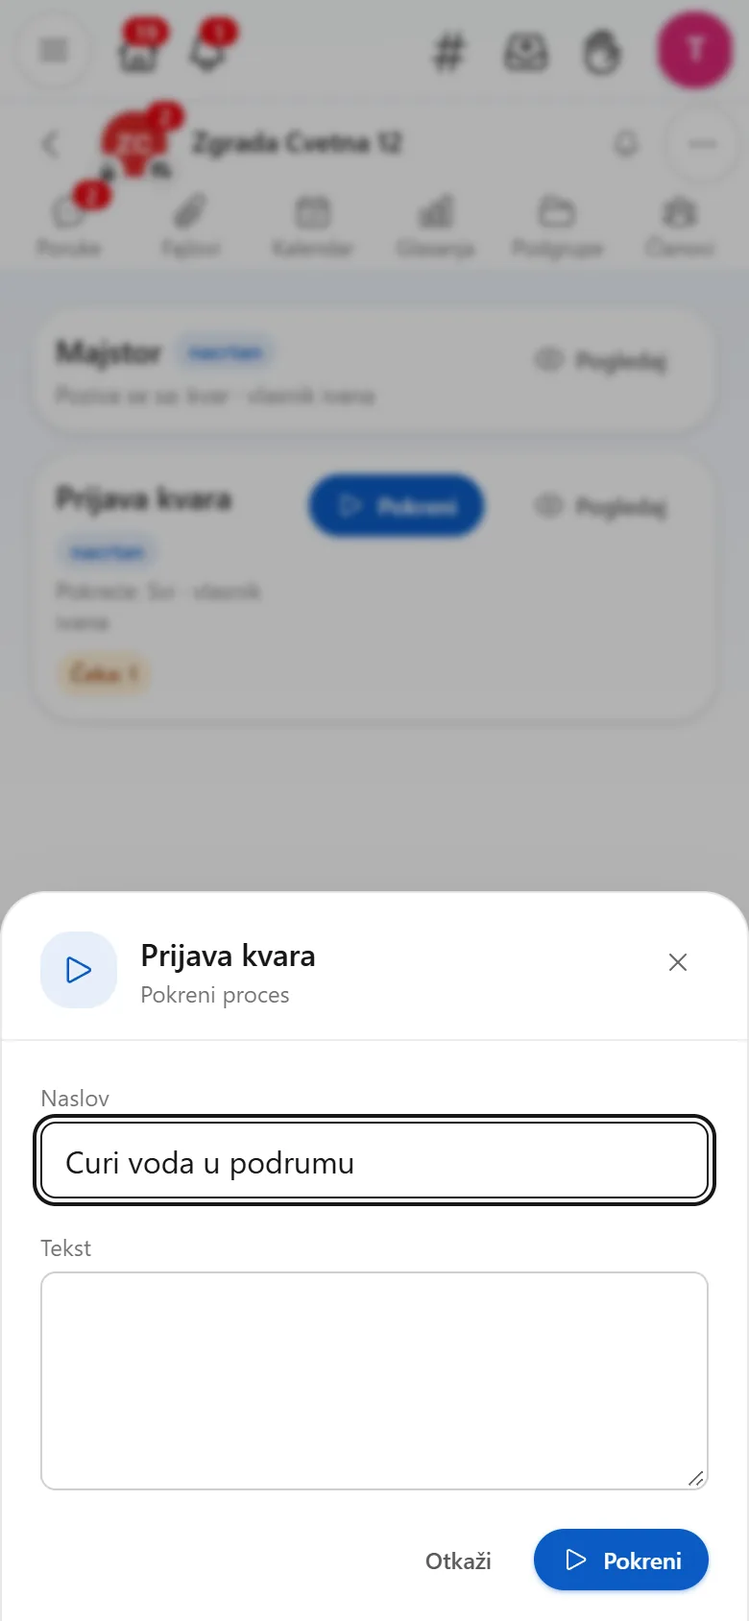
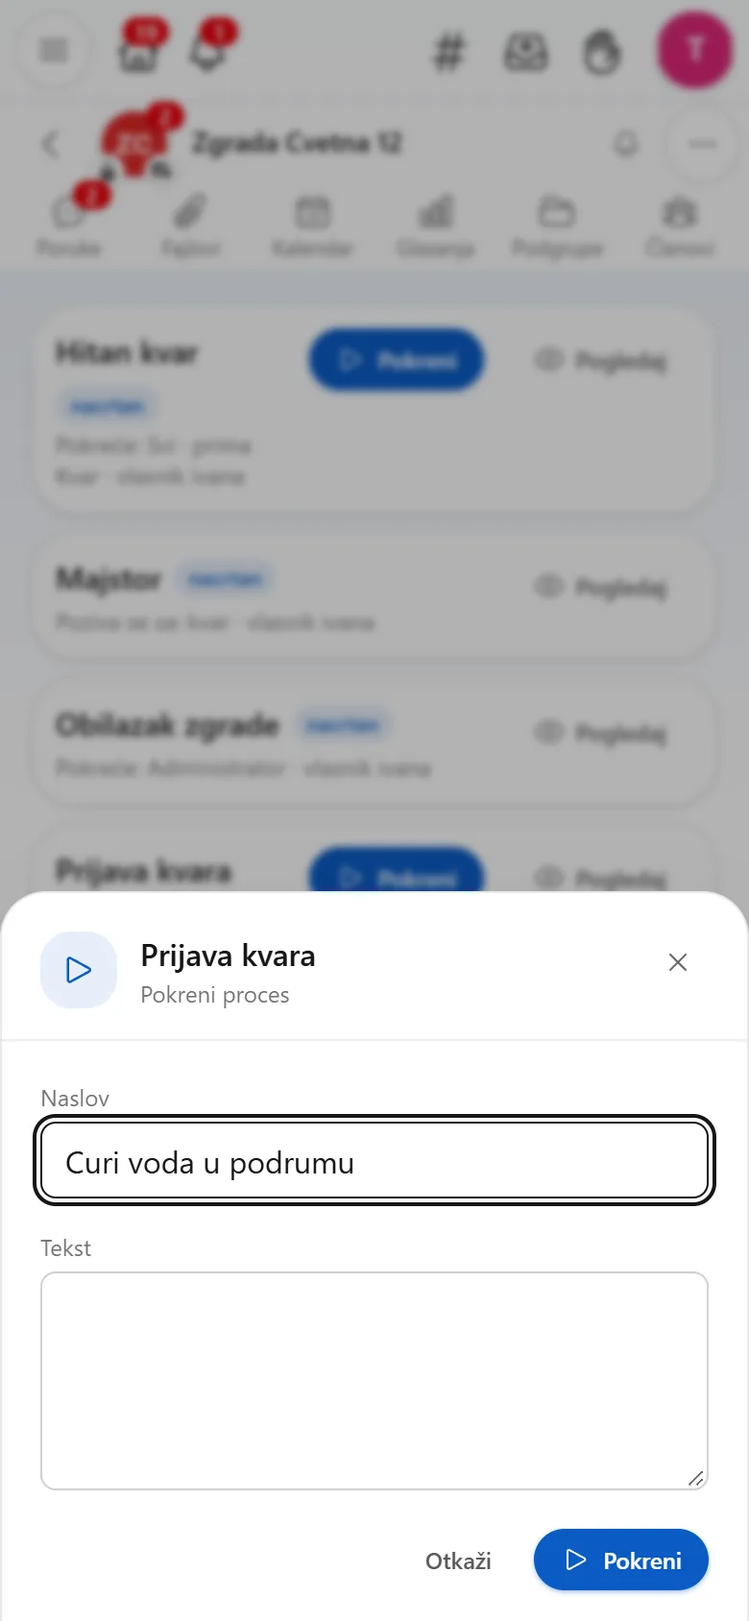
Show entities, lists and loops in the building's tutorial
The help's building example now walks through the typed side of drawn
processes, with pictures of it, and the landing page says it in a
sentence.

- Two new steps of the tutorial /pomoc/zgrada: a fault as an entity, taken
  by a process whose Start form asks for its attributes, and a round of
  the building, where a decision fills a list and "For each" goes through
  it. The co-op's tutorial says a signal may carry an entity.
- The picture world's building has the entity Kvar and the processes
  Hitan kvar and Obilazak zgrade, drawn with the ids the editor gives.
  Four new pictures (the entity's form, the typed Start form, the loop on
  the drawing, the data of the process), and those of the building's and
  the co-op's processes taken again.
- The help page shows the loop and the data of the process under "For
  each", and points at the tutorial.
- What a decision's comment said is offered among the names to put in,
  beside its outcome and who decided.
- Landing: one sentence in the card on apps, in the same voice: the data
  a process works with, its variables, and going through a list.

Domain map: not affected.

diff --git a/priv/static/help/zgrada.sr_Cyrl.md b/priv/static/help/zgrada.sr_Cyrl.md
@@ -133,6 +133,42 @@ engleski u zgrada.en.md prati ovaj tekst.
 
 ![Поља групе на картици Процеси](zgrada-polja)
 
+## 12. Квар као ентитет {:#entitet}
+
+Наслов и текст су довољни за почетак. Кад хоћеш да пријава увек каже и спрат, и да ли је хитно, опиши квар као **ентитет**: име и атрибути, сваки са својим типом.
+
+1. На картици Процеси, под **Ентитети**, додирни **Нови ентитет** и упиши „Квар“.
+2. Додај атрибуте: `naslov` као **Текст**, уз **Мора бити попуњен**, `sprat` као **Број** и `hitno` као **Да или не**. Додирни **Сачувај**.
+3. Нацртај процес „Хитан квар“, а под **Кад** изабери **га неко покрене**. Додирни почетни корак и под **Шта његова форма тражи** изабери „Квар“.
+4. Додај **Услов** и на његовој првој стрелици, под **Иде овуда када**, упиши `start.hitno`. На ту стрелицу додај **Пуш** за Администратора: упиши „Хитан квар: “ и додирни `start.naslov`.
+5. Испод тога додај **Поруку** у разговор зграде, са `start.naslov` и `start.sprat`, па додирни **Сачувај** и **Укључи**.
+
+![Ентитет Квар: атрибути и њихови типови](zgrada-entitet)
+
+Станар сада на **Покрени** добија форму са пољем за сваки атрибут: спрат прима само број, а наслов мора бити уписан. Кораци то читају као `{{start.naslov}}` и `{{start.sprat}}`, а Поток док црташ проверава да текст не сабираш као број.
+
+![Хитан квар: форма тражи атрибуте ентитета](zgrada-hitan-kvar)
+
+Исти ентитет може да прими и процес који други позивају, као Мајстор: корак **Позови процес** тада тражи вредност за сваки атрибут. Ако Мајстор треба и Кућном савету, на његовом почетном кораку укључи **Јаван процес**: тада га позивају и процеси група изнад и испод зграде.
+
+## 13. Обилазак зграде {:#obilazak}
+
+Једном месечно неко из савета обиђе зграду и запише шта је нашао. Процес памти налазе у **листи** и на крају за сваки напише поруку.
+
+1. Нацртај процес „Обилазак зграде“, а под **Кад** изабери **га неко покрене**. На почетном кораку, под **Ко сме да га покрене**, остави само Администратора.
+2. Док на цртежу ништа није изабрано, отвори **Подаци процеса**, на телефону дугметом са коцком. Додирни **Додај варијаблу**, упиши „налази“, остави **Текст** и укључи **Листа**.
+3. Додај **Одлуку** са исходима „Додај налаз“ и „Готово“.
+4. На стрелицу „Додај налаз“ додај **Постави вредност**: под **Шта поставља** изабери `nalazi`, под **Шта ради** изабери **Додаје ставку на крај**, а за вредност додирни `task_1.comment`. Стрелицу испод тог корака врати на одлуку: додирни је и под **Води до** изабери одлуку.
+5. На стрелицу „Готово“ додај **За сваки**. Под **Листа кроз коју пролази** додирни `nalazi`, а за **Име ставке** упиши „налаз“.
+6. Корак на стрелици **за сваки** је порука: упиши „Налаз “ и додирни `loop_1.index`, па „ од “ и `loop_1.count`, па „: “ и `nalaz`.
+7. Додирни **Сачувај**, па **Укључи**.
+
+![Обилазак зграде: одлука пуни листу, а За сваки је пролази](zgrada-obilazak)
+
+Ко обилази, на картици Процеси за сваки налаз упише коментар и додирне **Додај налаз**, а на крају **Готово**. Процес тада прође кроз листу и у разговору зграде напише сваки налаз, уз његов редни број. Све чиме процес располаже, са именима и типовима, стоји под **Подаци процеса**.
+
+![Подаци процеса: листа налази, ставка и бројачи](zgrada-podaci)
+
 ## Клуб, хор или екипа {:#klub}
 
 Клуб се слаже исто: један разговор за све, подгрупа без наслеђивања за оне који га воде и дељени профил кад треба да говоре једним гласом. Тренинзи и пробе су догађаји који се понављају: под **Понављање** изабери **Сваке недеље**.
@@ -140,6 +176,6 @@ engleski u zgrada.en.md prati ovaj tekst.
 ## Шта даље {:#dalje}
 
 - [Профили](/pomoc#profili): јединствени и дељени профили.
-- [Нацртај процес](/pomoc#nacrtaj-proces): све што може да покрене процес, и како процеси позивају један други.
+- [Нацртај процес](/pomoc#nacrtaj-proces): све што може да покрене процес, како процеси позивају један други, и ентитети, варијабле и листе.
 - [Поруке](/pomoc#poruke): одговори, нити, реакције и помињања.
 - [Фајлови и тагови](/pomoc#fajlovi-i-tagovi): све из разговора на једном месту.

diff --git a/priv/static/HELP.sr_Cyrl.md b/priv/static/HELP.sr_Cyrl.md
@@ -372,7 +372,9 @@ Pravila (PotokIdeWeb.HelpMarkdown):
 
 Процес може да памти и своје **варијабле**. Кад на цртежу ништа није изабрано, са стране стоје **Подаци процеса**, а на телефону их отвара дугме **Подаци**: шта је процес покренуло, његове варијабле, шта кораци враћају, поља групе и ентитети групе, свако са именом којим га читаш и типом онога што држи. Под **Варијабле** додирни **Додај варијаблу**, дај јој име и тип, а по жељи и оно са чим почиње. Варијабла може да држи и ентитет групе, а ентитет можеш да направиш и ту, без изласка из цртежа. Корак **Постави вредност** даје варијабли, или атрибуту ентитета који она држи, оно што израз израчуна, рецимо `ukupno + 1`. Свако покретање има своје варијабле, па се два покретања не мешају; оно што треба да виде сви процеси групе иде у поље групе.
 
-Варијабла може да држи и **листу**: у њеном реду укључи **Листа**. Корак **Постави вредност** тада под **Шта ради** бира да ли листу поставља целу или јој додаје ставку на крај. Корак **За сваки** пролази кроз листу, ставку по ставку: под **Листа кроз коју пролази** изабереш листу, а под **Име ставке** кажеш како је његови кораци читају, рецимо `{{stavka}}`. Његови кораци су они на стрелици **за сваки** и враћају се на њега; после последње ставке процес иде даље стрелицом **после последње**. Докле је стигао читаш као `{{za_svaki.index}}` од `{{za_svaki.count}}`, где је `za_svaki` име корака са цртежа. Листу чита једном, кад у њу уђе, и листа има највише 200 ставки. Његови кораци не воде до краја процеса: увек се враћају на **За сваки**, а могу и да чекају одлуку или да имају свој **За сваки**.
+Варијабла може да држи и **листу**: у њеном реду укључи **Листа**. Корак **Постави вредност** тада под **Шта ради** бира да ли листу поставља целу или јој додаје ставку на крај. Корак **За сваки** пролази кроз листу, ставку по ставку: под **Листа кроз коју пролази** изабереш листу, а под **Име ставке** кажеш како је његови кораци читају, рецимо `{{stavka}}`. Његови кораци су они на стрелици **за сваки** и враћају се на њега; после последње ставке процес иде даље стрелицом **после последње**. Докле је стигао читаш као `{{za_svaki.index}}` од `{{za_svaki.count}}`, где је `za_svaki` име корака са цртежа. Листу чита једном, кад у њу уђе, и листа има највише 200 ставки. Његови кораци не воде до краја процеса: увек се враћају на **За сваки**, а могу и да чекају одлуку или да имају свој **За сваки**. Корак по корак, [зграда](/pomoc/zgrada#obilazak) тако обилази своје налазе.
+
+![За сваки: одлука пуни листу, а петља је пролази](zgrada-obilazak) ![Подаци процеса](zgrada-podaci)
 
 Кад процес прима ентитет, оно што добија има типове, и читаш га као `{{start.sprat}}`. Корак **Позови процес** тада за сваки атрибут тражи вредност његовог типа, а обавезни атрибути морају бити попуњени: Поток то проверава док црташ, и још једном кад се позив деси. Ручно покретање са ентитетом даје форму са пољем за сваки атрибут, па такав ентитет сме да има само обичне атрибуте, без других ентитета и листа. Сигнал се чека са ентитетом: ко чека, каже шта чека, а процес који сигнал шаље мора да га пошаље са тим ентитетом. Ако се ентитет после промени, процес ради како је сачуван, а уредници на картици Процеси виде да цртеж треба прегледати и сачувати поново.
 

diff --git a/priv/static/help/zgrada.sr.md b/priv/static/help/zgrada.sr.md
@@ -133,6 +133,42 @@ Svaka prijava doda jedan, a koliko ih je bilo vidiš na dnu kartice Procesi, pod
 
 ![Polja grupe na kartici Procesi](zgrada-polja)
 
+## 12. Kvar kao entitet {:#entitet}
+
+Naslov i tekst su dovoljni za početak. Kad hoćeš da prijava uvek kaže i sprat, i da li je hitno, opiši kvar kao **entitet**: ime i atributi, svaki sa svojim tipom.
+
+1. Na kartici Procesi, pod **Entiteti**, dodirni **Novi entitet** i upiši „Kvar“.
+2. Dodaj atribute: `naslov` kao **Tekst**, uz **Mora biti popunjen**, `sprat` kao **Broj** i `hitno` kao **Da ili ne**. Dodirni **Sačuvaj**.
+3. Nacrtaj proces „Hitan kvar“, a pod **Kad** izaberi **ga neko pokrene**. Dodirni početni korak i pod **Šta njegova forma traži** izaberi „Kvar“.
+4. Dodaj **Uslov** i na njegovoj prvoj strelici, pod **Ide ovuda kada**, upiši `start.hitno`. Na tu strelicu dodaj **Push** za Administratora: upiši „Hitan kvar: “ i dodirni `start.naslov`.
+5. Ispod toga dodaj **Poruku** u razgovor zgrade, sa `start.naslov` i `start.sprat`, pa dodirni **Sačuvaj** i **Uključi**.
+
+![Entitet Kvar: atributi i njihovi tipovi](zgrada-entitet)
+
+Stanar sada na **Pokreni** dobija formu sa poljem za svaki atribut: sprat prima samo broj, a naslov mora biti upisan. Koraci to čitaju kao `{{start.naslov}}` i `{{start.sprat}}`, a Potok dok crtaš proverava da tekst ne sabiraš kao broj.
+
+![Hitan kvar: forma traži atribute entiteta](zgrada-hitan-kvar)
+
+Isti entitet može da primi i proces koji drugi pozivaju, kao Majstor: korak **Pozovi proces** tada traži vrednost za svaki atribut. Ako Majstor treba i Kućnom savetu, na njegovom početnom koraku uključi **Javan proces**: tada ga pozivaju i procesi grupa iznad i ispod zgrade.
+
+## 13. Obilazak zgrade {:#obilazak}
+
+Jednom mesečno neko iz saveta obiđe zgradu i zapiše šta je našao. Proces pamti nalaze u **listi** i na kraju za svaki napiše poruku.
+
+1. Nacrtaj proces „Obilazak zgrade“, a pod **Kad** izaberi **ga neko pokrene**. Na početnom koraku, pod **Ko sme da ga pokrene**, ostavi samo Administratora.
+2. Dok na crtežu ništa nije izabrano, otvori **Podaci procesa**, na telefonu dugmetom sa kockom. Dodirni **Dodaj varijablu**, upiši „nalazi“, ostavi **Tekst** i uključi **Lista**.
+3. Dodaj **Odluku** sa ishodima „Dodaj nalaz“ i „Gotovo“.
+4. Na strelicu „Dodaj nalaz“ dodaj **Postavi vrednost**: pod **Šta postavlja** izaberi `nalazi`, pod **Šta radi** izaberi **Dodaje stavku na kraj**, a za vrednost dodirni `task_1.comment`. Strelicu ispod tog koraka vrati na odluku: dodirni je i pod **Vodi do** izaberi odluku.
+5. Na strelicu „Gotovo“ dodaj **Za svaki**. Pod **Lista kroz koju prolazi** dodirni `nalazi`, a za **Ime stavke** upiši „nalaz“.
+6. Korak na strelici **za svaki** je poruka: upiši „Nalaz “ i dodirni `loop_1.index`, pa „ od “ i `loop_1.count`, pa „: “ i `nalaz`.
+7. Dodirni **Sačuvaj**, pa **Uključi**.
+
+![Obilazak zgrade: odluka puni listu, a Za svaki je prolazi](zgrada-obilazak)
+
+Ko obilazi, na kartici Procesi za svaki nalaz upiše komentar i dodirne **Dodaj nalaz**, a na kraju **Gotovo**. Proces tada prođe kroz listu i u razgovoru zgrade napiše svaki nalaz, uz njegov redni broj. Sve čime proces raspolaže, sa imenima i tipovima, stoji pod **Podaci procesa**.
+
+![Podaci procesa: lista nalazi, stavka i brojači](zgrada-podaci)
+
 ## Klub, hor ili ekipa {:#klub}
 
 Klub se slaže isto: jedan razgovor za sve, podgrupa bez nasleđivanja za one koji ga vode i deljeni profil kad treba da govore jednim glasom. Treninzi i probe su događaji koji se ponavljaju: pod **Ponavljanje** izaberi **Svake nedelje**.
@@ -140,6 +176,6 @@ Klub se slaže isto: jedan razgovor za sve, podgrupa bez nasleđivanja za one ko
 ## Šta dalje {:#dalje}
 
 - [Profili](/pomoc#profili): jedinstveni i deljeni profili.
-- [Nacrtaj proces](/pomoc#nacrtaj-proces): sve što može da pokrene proces, i kako procesi pozivaju jedan drugi.
+- [Nacrtaj proces](/pomoc#nacrtaj-proces): sve što može da pokrene proces, kako procesi pozivaju jedan drugi, i entiteti, varijable i liste.
 - [Poruke](/pomoc#poruke): odgovori, niti, reakcije i pominjanja.
 - [Fajlovi i tagovi](/pomoc#fajlovi-i-tagovi): sve iz razgovora na jednom mestu.

diff --git a/priv/static/help/zgrada.en.md b/priv/static/help/zgrada.en.md
@@ -132,6 +132,42 @@ Every report adds one, and how many there were you see at the bottom of the Proc
 
 ![The group's fields on the Processes tab](zgrada-polja)
 
+## 12. A fault as an entity {:#entitet}
+
+A title and a text are enough to begin with. When you want a report to always say the floor too, and whether it is urgent, describe a fault as an **entity**: a name and attributes, each with its type.
+
+1. On the Processes tab, under **Entities**, tap **New entity** and type "Kvar".
+2. Add the attributes: `naslov` as **Text**, with **Must be filled in**, `sprat` as a **Number** and `hitno` as **Yes or no**. Tap **Save**.
+3. Draw a process "Hitan kvar", and under **When** pick **someone starts it**. Tap the start step and under **What its form asks for** pick "Kvar".
+4. Add a **Condition** and on its first arrow, under **Goes this way when**, type `start.hitno`. On that arrow add a **Push** for the Administrator: type "Hitan kvar: " and tap `start.naslov`.
+5. Under it add a **Message** in the building's chat, with `start.naslov` and `start.sprat`, then tap **Save** and **Switch on**.
+
+![The entity Kvar: attributes and their types](zgrada-entitet)
+
+A resident who taps **Start** now gets a form with a field for each attribute: the floor takes a number only, and the title must be typed. The steps read it as `{{start.naslov}}` and `{{start.sprat}}`, and Potok checks as you draw that you do not add a text up as a number.
+
+![An urgent fault: the form asks for the entity's attributes](zgrada-hitan-kvar)
+
+A process others call, like the Repairer, can take the same entity: the step **Call a process** then asks for a value for each attribute. If the House council needs the Repairer too, tick **Public process** on its start step: then the processes of the groups above and below the building call it as well.
+
+## 13. A round of the building {:#obilazak}
+
+Once a month someone from the council goes round the building and notes what they found. The process keeps the findings in a **list**, and in the end writes a message for each.
+
+1. Draw a process "Obilazak zgrade", and under **When** pick **someone starts it**. On the start step, under **Who may start it**, leave the Administrator only.
+2. While nothing on the drawing is picked, open the **Data of the process**, on a phone with the cube button. Tap **Add a variable**, type "nalazi", leave **Text** and tick **A list**.
+3. Add a **Decision** with the outcomes "Dodaj nalaz" and "Gotovo".
+4. On the arrow "Dodaj nalaz" add **Set a value**: under **What it sets** pick `nalazi`, under **What it does** pick **Adds an item to its end**, and for the value tap `task_1.comment`. Send the arrow under that step back to the decision: tap it and under **Leads to** pick the decision.
+5. On the arrow "Gotovo" add **For each**. Under **List it goes through** tap `nalazi`, and for the **Name of an item** type "nalaz".
+6. The step on the arrow **for each** is a message: type "Nalaz " and tap `loop_1.index`, then " od " and `loop_1.count`, then ": " and `nalaz`.
+7. Tap **Save**, then **Switch on**.
+
+![A round of the building: a decision fills the list, and For each goes through it](zgrada-obilazak)
+
+Whoever goes round types a comment for each finding on the Processes tab and taps **Dodaj nalaz**, and in the end **Gotovo**. The process then goes through the list and writes each finding in the building's chat, with its number. All that the process has, with names and types, stands under the **Data of the process**.
+
+![Data of the process: the list nalazi, the item and the counters](zgrada-podaci)
+
 ## A club, a choir or a team {:#klub}
 
 A club is put together the same way: one chat for everyone, a sub-group without inherited members for those who run it and a shared profile when they should speak with one voice. Training sessions and rehearsals are events that repeat: under **Repeats**, choose **Weekly**.

diff --git a/priv/static/HELP.en.md b/priv/static/HELP.en.md
@@ -366,7 +366,9 @@ Those braces may also hold an expression: `{{group.kvarova + 1}}` counts, `{{upp
 
 A process can also keep **variables** of its own. When nothing on the drawing is picked, the **Data of the process** stands beside it, and on a phone the **Data** button opens it: what started the process, its variables, what its steps bring back, the group's fields and the group's entities, each with the name you read it by and the type of what it holds. Under **Variables** tap **Add a variable**, give it a name and a type, and if you like what it starts with. A variable can also hold an entity of the group, and you can define an entity right there, without leaving the drawing. The step **Set a value** gives a variable, or an attribute of the entity it holds, what an expression works out, say `ukupno + 1`. Every run has its own variables, so two runs never mix; what all the group's processes should see goes into a group field.
 
-A variable can also hold a **list**: tick **A list** in its row. The step **Set a value** then picks, under **What it does**, whether it sets the whole list or adds an item to its end. The step **For each** goes through a list an item at a time: under **List it goes through** you pick the list, and under **Name of an item** you say how its steps read the item, such as `{{stavka}}`. Its steps are those on the arrow **for each**, and they lead back to it; after the last item the process goes on by the arrow **after the last**. How far it has come reads as `{{za_svaki.index}}` of `{{za_svaki.count}}`, where `za_svaki` is the name of the step on the drawing. It reads the list once, on its way in, and a list holds 200 items at most. Its steps do not lead to an end of the process: they always come back to **For each**, and they may wait for a decision or hold a **For each** of their own.
+A variable can also hold a **list**: tick **A list** in its row. The step **Set a value** then picks, under **What it does**, whether it sets the whole list or adds an item to its end. The step **For each** goes through a list an item at a time: under **List it goes through** you pick the list, and under **Name of an item** you say how its steps read the item, such as `{{stavka}}`. Its steps are those on the arrow **for each**, and they lead back to it; after the last item the process goes on by the arrow **after the last**. How far it has come reads as `{{za_svaki.index}}` of `{{za_svaki.count}}`, where `za_svaki` is the name of the step on the drawing. It reads the list once, on its way in, and a list holds 200 items at most. Its steps do not lead to an end of the process: they always come back to **For each**, and they may wait for a decision or hold a **For each** of their own. Step by step, the [building](/pomoc/zgrada#obilazak) goes round its findings this way.
+
+![For each: a decision fills the list, and the loop goes through it](zgrada-obilazak) ![Data of the process](zgrada-podaci)
 
 When a process takes an entity, what it gets has types, and you read it as `{{start.sprat}}`. The step **Call a process** then asks for a value of its type for each attribute, and the required ones must be filled in: Potok checks that as you draw, and once more when the call is made. A start by hand with an entity gives a form with a field for each attribute, so such an entity may hold plain attributes only, no other entities and no lists. A signal is waited for with an entity: whoever waits says what it waits for, and a process that sends the signal must send it with that entity. If the entity changes later, the process runs on as it was saved, and its editors see on the Processes tab that the drawing should be looked over and saved again.
 

diff --git a/priv/static/HELP.sr.md b/priv/static/HELP.sr.md
@@ -372,7 +372,9 @@ U tim zagradama može da stoji i izraz: `{{group.kvarova + 1}}` računa, `{{uppe
 
 Proces može da pamti i svoje **varijable**. Kad na crtežu ništa nije izabrano, sa strane stoje **Podaci procesa**, a na telefonu ih otvara dugme **Podaci**: šta je proces pokrenulo, njegove varijable, šta koraci vraćaju, polja grupe i entiteti grupe, svako sa imenom kojim ga čitaš i tipom onoga što drži. Pod **Varijable** dodirni **Dodaj varijablu**, daj joj ime i tip, a po želji i ono sa čim počinje. Varijabla može da drži i entitet grupe, a entitet možeš da napraviš i tu, bez izlaska iz crteža. Korak **Postavi vrednost** daje varijabli, ili atributu entiteta koji ona drži, ono što izraz izračuna, recimo `ukupno + 1`. Svako pokretanje ima svoje varijable, pa se dva pokretanja ne mešaju; ono što treba da vide svi procesi grupe ide u polje grupe.
 
-Varijabla može da drži i **listu**: u njenom redu uključi **Lista**. Korak **Postavi vrednost** tada pod **Šta radi** bira da li listu postavlja celu ili joj dodaje stavku na kraj. Korak **Za svaki** prolazi kroz listu, stavku po stavku: pod **Lista kroz koju prolazi** izabereš listu, a pod **Ime stavke** kažeš kako je njegovi koraci čitaju, recimo `{{stavka}}`. Njegovi koraci su oni na strelici **za svaki** i vraćaju se na njega; posle poslednje stavke proces ide dalje strelicom **posle poslednje**. Dokle je stigao čitaš kao `{{za_svaki.index}}` od `{{za_svaki.count}}`, gde je `za_svaki` ime koraka sa crteža. Listu čita jednom, kad u nju uđe, i lista ima najviše 200 stavki. Njegovi koraci ne vode do kraja procesa: uvek se vraćaju na **Za svaki**, a mogu i da čekaju odluku ili da imaju svoj **Za svaki**.
+Varijabla može da drži i **listu**: u njenom redu uključi **Lista**. Korak **Postavi vrednost** tada pod **Šta radi** bira da li listu postavlja celu ili joj dodaje stavku na kraj. Korak **Za svaki** prolazi kroz listu, stavku po stavku: pod **Lista kroz koju prolazi** izabereš listu, a pod **Ime stavke** kažeš kako je njegovi koraci čitaju, recimo `{{stavka}}`. Njegovi koraci su oni na strelici **za svaki** i vraćaju se na njega; posle poslednje stavke proces ide dalje strelicom **posle poslednje**. Dokle je stigao čitaš kao `{{za_svaki.index}}` od `{{za_svaki.count}}`, gde je `za_svaki` ime koraka sa crteža. Listu čita jednom, kad u nju uđe, i lista ima najviše 200 stavki. Njegovi koraci ne vode do kraja procesa: uvek se vraćaju na **Za svaki**, a mogu i da čekaju odluku ili da imaju svoj **Za svaki**. Korak po korak, [zgrada](/pomoc/zgrada#obilazak) tako obilazi svoje nalaze.
+
+![Za svaki: odluka puni listu, a petlja je prolazi](zgrada-obilazak) ![Podaci procesa](zgrada-podaci)
 
 Kad proces prima entitet, ono što dobija ima tipove, i čitaš ga kao `{{start.sprat}}`. Korak **Pozovi proces** tada za svaki atribut traži vrednost njegovog tipa, a obavezni atributi moraju biti popunjeni: Potok to proverava dok crtaš, i još jednom kad se poziv desi. Ručno pokretanje sa entitetom daje formu sa poljem za svaki atribut, pa takav entitet sme da ima samo obične atribute, bez drugih entiteta i lista. Signal se čeka sa entitetom: ko čeka, kaže šta čeka, a proces koji signal šalje mora da ga pošalje sa tim entitetom. Ako se entitet posle promeni, proces radi kako je sačuvan, a urednici na kartici Procesi vide da crtež treba pregledati i sačuvati ponovo.
 

diff --git a/priv/static/help/zadruga.sr_Cyrl.md b/priv/static/help/zadruga.sr_Cyrl.md
@@ -109,6 +109,8 @@ engleski u zadruga.en.md prati ovaj tekst.
 
 Свака спакована поруџбина сада чека суботу. У суботу у 8:00 Дан преузимања пошаље сигнал, и сваки купац чија поруџбина чека добије поруку у свом разговору. Поруџбина спакована после тога чека следећу суботу.
 
+Ако сигнал треба да носи више од једног текста, дефиниши ентитет на картици Процеси и изабери га под **Ентитет који носи**: ко чека сигнал каже шта чека, а ко га шаље попуњава његове атрибуте, сваки као његов тип.
+
 ## Шта даље {:#dalje}
 
 - [Апликације у групи](/pomoc#aplikacije): све што Форма уме.

diff --git a/priv/static/help/zadruga.en.md b/priv/static/help/zadruga.en.md
@@ -108,6 +108,8 @@ Packed orders wait for Saturday. Let one process tell everyone on Saturday morni
 
 Every packed order now waits for Saturday. On Saturday at 8:00 Pick-up day sends the signal, and every buyer whose order waits gets a message in their talk. An order packed after that waits for the next Saturday.
 
+If a signal should carry more than one text, define an entity on the Processes tab and pick it under **Entity it carries**: whoever waits for the signal says what it waits for, and whoever sends it fills in its attributes, each as its type.
+
 ## What next {:#dalje}
 
 - [Apps in a group](/pomoc#aplikacije): everything Form can do.

diff --git a/priv/static/help/zadruga.sr.md b/priv/static/help/zadruga.sr.md
@@ -109,6 +109,8 @@ Spakovane porudžbine čekaju subotu. Neka u subotu ujutru jedan proces javi svi
 
 Svaka spakovana porudžbina sada čeka subotu. U subotu u 8:00 Dan preuzimanja pošalje signal, i svaki kupac čija porudžbina čeka dobije poruku u svom razgovoru. Porudžbina spakovana posle toga čeka sledeću subotu.
 
+Ako signal treba da nosi više od jednog teksta, definiši entitet na kartici Procesi i izaberi ga pod **Entitet koji nosi**: ko čeka signal kaže šta čeka, a ko ga šalje popunjava njegove atribute, svaki kao njegov tip.
+
 ## Šta dalje {:#dalje}
 
 - [Aplikacije u grupi](/pomoc#aplikacije): sve što Forma ume.
